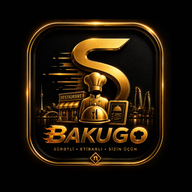
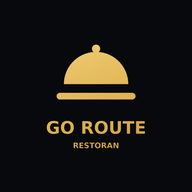
BakuGo → Go Route: ad, mətnlər və yeni ikonlar
Claude-Session: https://claude.ai/code/session_01PtVsXPLeBRa4THvtCHbKh1

Changed region(s): [[0.125, 0.0938, 0.875, 0.875]]

diff --git a/index.html b/index.html
@@ -5,7 +5,7 @@
 <!-- Google Maps (bütün xəritələr) -->
 <script>
 /* =====================================================================
-   BakuGo — GOOGLE MAPS ADAPTERİ
+   Go Route — GOOGLE MAPS ADAPTERİ
    Tətbiqdəki bütün xəritələr Google Maps ilə işləyir. Köhnə kod Leaflet
    sintaksisi (L.map, L.marker, ...) ilə yazıldığı üçün burada həmin
    funksiyalar Google Maps JavaScript API üzərində yenidən qurulub.
@@ -742,13 +742,13 @@
 
 </script>
 <meta name="viewport" content="width=device-width, initial-scale=1.0, viewport-fit=cover">
-<title>BakuGo Restoran</title>
-<meta name="description" content="BakuGo Restoran — sifarişləri qəbul et, menyunu idarə et.">
+<title>Go Route Restoran</title>
+<meta name="description" content="Go Route Restoran — sifarişləri qəbul et, menyunu idarə et.">
 <link rel="manifest" href="manifest.json">
 <meta name="theme-color" content="#000000">
 <meta name="mobile-web-app-capable" content="yes">
 <meta name="apple-mobile-web-app-capable" content="yes">
-<meta name="apple-mobile-web-app-title" content="BakuGo Restoran">
+<meta name="apple-mobile-web-app-title" content="Go Route Restoran">
 <meta name="apple-mobile-web-app-status-bar-style" content="black">
 <link rel="icon" type="image/png" sizes="32x32" href="favicon-32.png">
 <link rel="icon" type="image/png" sizes="192x192" href="icon-192.png">
@@ -1065,7 +1065,7 @@ input,select,textarea{font-family:inherit;}
 <div id="auth">
   <div class="auth-wrap">
     <img class="auth-logo" src="icon-192.png" alt="">
-    <div class="auth-t">BakuGo Restoran</div>
+    <div class="auth-t">Go Route Restoran</div>
     <div class="auth-s">İşçi paneli · restoranın hesabı ilə daxil olun</div>
     <div id="loginBox">
       <input class="inp" id="loginEmail" type="email" placeholder="E-poçt" autocomplete="username">
@@ -1081,7 +1081,7 @@ input,select,textarea{font-family:inherit;}
 <div class="topbar">
   <div class="brand">
     <img id="topLogo" src="icon-96.png" alt="">
-    <div class="t"><div class="n" id="topName">BakuGo Restoran</div><div class="s" id="topSub">Sifariş paneli</div></div>
+    <div class="t"><div class="n" id="topName">Go Route Restoran</div><div class="s" id="topSub">Sifariş paneli</div></div>
   </div>
   <div class="status-pill" id="statusPill" onclick="toggleActive()"><span class="d"></span><span id="statusTxt">Bağlı</span></div>
   <button class="ibtn" id="bellBtn" onclick="openSheet('notifSheet')">🔔<span class="b" id="bellBadge">0</span></button>
@@ -1175,7 +1175,7 @@ input,select,textarea{font-family:inherit;}
     <div class="list">
       <div class="li danger" onclick="if(confirm('Paneldən çıxmaq istəyirsiniz? Yeni sifarişlər bu cihaza gəlməyəcək.')) logout()"><div class="ic">🚪</div><div class="t">Çıxış</div></div>
     </div>
-    <div style="text-align:center;color:var(--muted);font-size:11.5px;margin:6px 0 10px;">BakuGo Restoran · işçi paneli</div>
+    <div style="text-align:center;color:var(--muted);font-size:11.5px;margin:6px 0 10px;">Go Route Restoran · işçi paneli</div>
   </section>
 </div>
 
@@ -1447,7 +1447,7 @@ window.installApp = async function(){
       let perm = Notification.permission;
       if (perm === "default") { if (!interactive) return; perm = await Notification.requestPermission(); }
       const el = document.getElementById("accPush");
-      if (perm !== "granted") { if(el) el.textContent = "Bağlıdır — açmaq üçün toxunun"; say("🔕 İcazə bağlıdır: Telefon Ayarlar → Tətbiqlər → Chrome/BakuGo Restoran → Bildirişlər"); return; }
+      if (perm !== "granted") { if(el) el.textContent = "Bağlıdır — açmaq üçün toxunun"; say("🔕 İcazə bağlıdır: Telefon Ayarlar → Tətbiqlər → Chrome/Go Route Restoran → Bildirişlər"); return; }
       const reg = (await (window.__swReady || Promise.resolve(null))) || await navigator.serviceWorker.register("./sw.js", { scope: "./" });
       await navigator.serviceWorker.ready;
       const token = await msgMod.getToken(msgMod.getMessaging(app), { serviceWorkerRegistration: reg });
@@ -1503,7 +1503,7 @@ window.installApp = async function(){
   function paintAccount(){
     const d = currentUserData || {};
     const on = d.active !== false;
-    document.getElementById("topName").textContent = d.name || "BakuGo Restoran";
+    document.getElementById("topName").textContent = d.name || "Go Route Restoran";
     document.getElementById("profName").textContent = d.name || "Restoran";
     document.getElementById("profEmail").textContent = "İşçi paneli";
     document.getElementById("profAddr").textContent = "📍 " + (d.restaurantAddress || "—");
@@ -1684,12 +1684,12 @@ window.installApp = async function(){
     (o.items || []).forEach(i => { const k = i.name + "|" + (parseFloat(i.price) || 0); if(!g[k]) g[k] = { n: i.name, p: parseFloat(i.price) || 0, q: 0 }; g[k].q += parseFloat(i.qty || i.quantity || 1) || 1; });
     const rows = Object.values(g).map(x => `<div class="r"><span>${x.q} × ${esc(x.n)}</span><span>${(x.p * x.q).toFixed(2)}</span></div>`).join("");
     const d = new Date(tms(o) || Date.now());
-    document.getElementById("printArea").innerHTML = `<h1>${esc((currentUserData && currentUserData.name) || "BakuGo")}</h1>
+    document.getElementById("printArea").innerHTML = `<h1>${esc((currentUserData && currentUserData.name) || "Go Route")}</h1>
       <div class="c">SİFARİŞ #${esc(id.substring(0, 6).toUpperCase())}</div>
       <div class="c">${d.toLocaleDateString("az-AZ")} ${d.toLocaleTimeString("az-AZ", { hour: "2-digit", minute: "2-digit" })}</div>
       ${o.prepMinutes ? `<div class="c">Hazırlıq: ${o.prepMinutes} dəq</div>` : ""}<hr>${rows}<hr>
       <div class="r"><b>CƏMİ</b><b>${orderTotal(o).toFixed(2)} AZN</b></div>
-      ${noteOf(o) ? `<hr><div><b>QEYD:</b> ${esc(noteOf(o))}</div>` : ""}<hr><div class="c">BakuGo</div>`;
+      ${noteOf(o) ? `<hr><div><b>QEYD:</b> ${esc(noteOf(o))}</div>` : ""}<hr><div class="c">Go Route</div>`;
     document.getElementById("printArea").style.setProperty("--paper", (CFG.paper === 58 ? 48 : 72) + "mm");
     setTimeout(() => window.print(), 50);
   };
@@ -1927,7 +1927,7 @@ window.installApp = async function(){
       Snd.notif(false);
       const bell = document.getElementById("bellBtn"); bell.classList.remove("ring"); void bell.offsetWidth; bell.classList.add("ring");
       toast("🔔 " + (n.title || "Yeni bildiriş"));
-      if(window.showSystemNotif) window.showSystemNotif(n.title || "BakuGo", n.body || "", "n-" + ch.doc.id);
+      if(window.showSystemNotif) window.showSystemNotif(n.title || "Go Route", n.body || "", "n-" + ch.doc.id);
     });
   }
   function listenNotifications(user){

diff --git a/sahib.html b/sahib.html
@@ -4,13 +4,13 @@
 <meta charset="UTF-8">
 <meta name="viewport" content="width=device-width, initial-scale=1, viewport-fit=cover">
 <meta name="theme-color" content="#0b0b0d">
-<title>BakuGo — Restoran Sahibi</title>
+<title>Go Route — Restoran Sahibi</title>
 <link rel="manifest" href="manifest-sahib.json">
 <link rel="icon" type="image/png" sizes="32x32" href="favicon-32.png">
 <link rel="apple-touch-icon" href="apple-touch-icon.png">
 <meta name="apple-mobile-web-app-capable" content="yes">
 <meta name="mobile-web-app-capable" content="yes">
-<meta name="apple-mobile-web-app-title" content="BakuGo Sahib">
+<meta name="apple-mobile-web-app-title" content="Go Route Sahib">
 <style>
 :root{
   --bg:#0b0b0d; --card:#151518; --card2:#1c1c20; --line:rgba(255,255,255,.08);
@@ -162,7 +162,7 @@ textarea{resize:vertical;font-family:ui-monospace,Menlo,Consolas,monospace;font-
 <!-- GİRİŞ -->
 <section id="authScreen" class="gate hide">
   <div class="gate-box">
-    <h1 class="title-grad">👑 BakuGo Sahib</h1>
+    <h1 class="title-grad">👑 Go Route Sahib</h1>
     <p class="sub">Restoran sahibi paneli</p>
     <input id="lEmail" type="email" placeholder="Gmail" autocomplete="username">
     <input id="lPass" type="password" placeholder="Şifrə" autocomplete="current-password">
@@ -906,7 +906,7 @@ function openBulk(){
   $("bkTpl").onclick = () => {
     const csv = "\uFEFFAd;Qiymət;Kateqoriya;Endirim %;Şəkil\r\nLahmacun;4.50;Restoranlar;;lahmacun.jpg\r\nDöner;6.00;Restoranlar;10;doner.jpg\r\nCola 0.5L;1.80;İçkilər;;\r\n";
     const a = document.createElement("a"); a.href = URL.createObjectURL(new Blob([csv], {type:"text/csv;charset=utf-8"}));
-    a.download = "bakugo-menyu-sablon.csv"; document.body.appendChild(a); a.click(); a.remove();
+    a.download = "goroute-menyu-sablon.csv"; document.body.appendChild(a); a.click(); a.remove();
   };
   $("bkFile").onchange = async e => {
     const f = e.target.files[0]; if(!f) return;

diff --git a/privacy-policy.html b/privacy-policy.html
@@ -3,7 +3,7 @@
 <head>
 <meta charset="UTF-8">
 <meta name="viewport" content="width=device-width, initial-scale=1.0">
-<title>Gizlilik Siyasəti — BakuGo Restoran</title>
+<title>Gizlilik Siyasəti — Go Route Restoran</title>
 <link rel="icon" type="image/png" href="favicon-32.png">
 <style>
 body{margin:0;background:#050505;color:#eee;font-family:'Segoe UI',Roboto,Arial,sans-serif;line-height:1.65;}
@@ -15,10 +15,10 @@ li{margin:6px 0;} .muted{opacity:.6;font-size:13px;}
 </style>
 </head>
 <body><main>
-<img class="logo" src="icon-192.png" alt="BakuGo">
-<h1>Gizlilik Siyasəti — BakuGo Restoran</h1>
+<img class="logo" src="icon-192.png" alt="Go Route">
+<h1>Gizlilik Siyasəti — Go Route Restoran</h1>
 <p class="muted">Son yenilənmə: 8 noyabr 2026</p>
-<p><b>BakuGo Restoran</b> paneli BakuGo platformasında satış edən restoran və mağazalar üçündür. Bu sənəd panelin hansı məlumatları topladığını izah edir.</p>
+<p><b>Go Route Restoran</b> paneli Go Route platformasında satış edən restoran və mağazalar üçündür. Bu sənəd panelin hansı məlumatları topladığını izah edir.</p>
 <h2>1. Topladığımız məlumatlar</h2>
 <ul>
 <li><b>Hesab:</b> restoranın adı, e-poçt, telefon, ünvan və xəritə koordinatları, loqo, şəbəkə (brend) adı.</li>
@@ -35,5 +35,5 @@ li{margin:6px 0;} .muted{opacity:.6;font-size:13px;}
 <h2>5. Əlaqə</h2>
 <p>WhatsApp: <a href="https://wa.me/994702484852">+994 70 248 48 52</a> · E-poçt: <a href="mailto:seymur048ibrahimov@gmail.com">seymur048ibrahimov@gmail.com</a></p>
 
-<p class="muted" style="margin-top:30px;">© 2026 BakuGo · <a href="privacy-policy.html">Gizlilik siyasəti</a> · <a href="./">Panelə qayıt</a></p>
+<p class="muted" style="margin-top:30px;">© 2026 Go Route · <a href="privacy-policy.html">Gizlilik siyasəti</a> · <a href="./">Panelə qayıt</a></p>
 </main></body></html>

diff --git a/offline.html b/offline.html
@@ -3,7 +3,7 @@
 <head>
 <meta charset="UTF-8">
 <meta name="viewport" content="width=device-width, initial-scale=1.0">
-<title>Offline — BakuGo</title>
+<title>Offline — Go Route</title>
 <link rel="icon" type="image/png" href="favicon-32.png">
 <style>
 body{margin:0;background:#050505;color:#eee;font-family:'Segoe UI',Roboto,Arial,sans-serif;line-height:1.65;}
@@ -15,9 +15,9 @@ li{margin:6px 0;} .muted{opacity:.6;font-size:13px;}
 </style>
 </head>
 <body><main>
-<img class="logo" src="icon-192.png" alt="BakuGo">
+<img class="logo" src="icon-192.png" alt="Go Route">
 <h1>İnternet bağlantısı yoxdur</h1>
-<p>BakuGo Restoran sifarişləri və menyunu göstərmək üçün internetə ehtiyac duyur. Bağlantını yoxlayıb yenidən cəhd edin.</p>
+<p>Go Route Restoran sifarişləri və menyunu göstərmək üçün internetə ehtiyac duyur. Bağlantını yoxlayıb yenidən cəhd edin.</p>
 <p><a href="./" onclick="location.reload();return false;" style="display:inline-block;background:#ff5722;color:#fff;padding:12px 22px;border-radius:12px;text-decoration:none;font-weight:700;">Yenidən cəhd et</a></p>
 <script>window.addEventListener('online',function(){location.href='./';});</script>
 </main></body></html>

diff --git a/sw.js b/sw.js
@@ -1,9 +1,9 @@
-/* BakuGo Restoran — Service Worker
+/* Go Route Restoran — Service Worker
    1) Offline dəstəyi (PWABuilder və Play/TWA yoxlaması üçün)
    2) Firebase Cloud Messaging — tətbiq bağlı olanda push bildirişləri
    Bu fayl index.html ilə EYNİ qovluqda olmalıdır. */
 
-const CACHE = 'bakugo-restoran-v10';
+const CACHE = 'goroute-restoran-v11';
 const PRECACHE = [
   './',
   './index.html',
